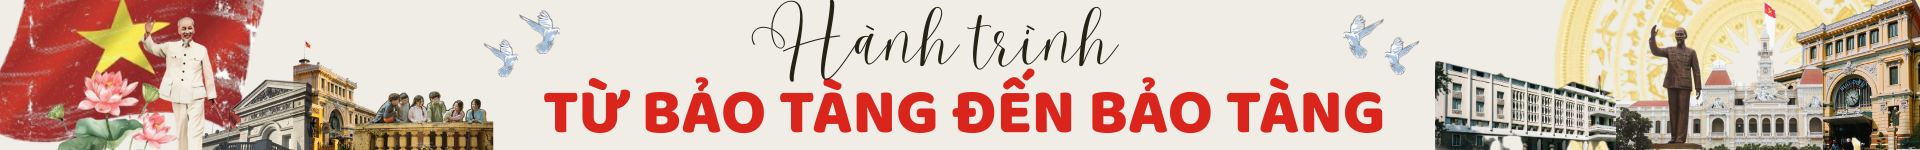
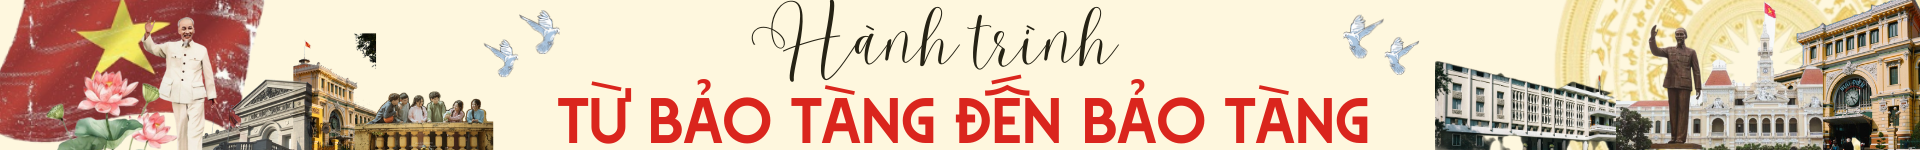
web demo

Changed region(s): [[0.2812, 0.4533, 0.7188, 0.96], [0.1875, 0.2133, 0.2188, 0.4]]

diff --git a/index.html b/index.html
@@ -16,6 +16,9 @@
   <link rel="stylesheet" href="https://unpkg.com/leaflet.locatecontrol/dist/L.Control.Locate.min.css" />
   <script src="https://unpkg.com/leaflet.locatecontrol/dist/L.Control.Locate.min.js"></script>
 
+  <link rel="stylesheet" href="https://unpkg.com/leaflet-routing-machine/dist/leaflet-routing-machine.css" />
+  <script src="https://unpkg.com/leaflet-routing-machine/dist/leaflet-routing-machine.js"></script>
+
   <style>
     body {
       margin: 0;
@@ -43,7 +46,7 @@
       justify-content: center;
       align-items: center;
       padding: 10px;
-      background: #efede5;
+      background: #fff8dc;
       box-shadow: 0 2px 4px rgba(0,0,0,0.1);
       position: relative;
       z-index: 1500;
@@ -92,7 +95,7 @@
     /* Sidebar cố định bên trái */
     .sidebar {
       width: 30%;
-      background: #efede5;
+      background: #fff8dc;
       padding: 20px;
       overflow-y: auto;
       border-right: 1px solid #ccc;
@@ -102,6 +105,155 @@
     #map {
       flex: 1;
     }
+    #chatbox {
+      position: absolute;
+      bottom: 20px;
+      right: 20px;
+      width: 300px;
+      max-height: 400px;
+      background: white;
+      border: 2px solid #ccc;
+      border-radius: 10px;
+      overflow: hidden;
+      box-shadow: 0px 4px 12px rgba(0,0,0,0.2);
+      display: flex;
+      flex-direction: column;
+      z-index: 1000;
+    }
+
+    #chat-header {
+      background: #da251d;
+      color: white;
+      padding: 10px;
+      cursor: pointer;
+      text-align: center;
+      font-weight: bold;
+    }
+
+    #chat-body {
+      padding: 10px;
+      display: none; /* Mặc định ẩn */
+    }
+
+    #chat-widget {
+      position: fixed;
+      bottom: 70px; 
+      right: 10px; /* dịch sang trái để nằm cạnh nút "Gợi ý hành trình" */
+      z-index: 10000;
+      font-family: Arial, sans-serif;
+    }
+
+    /* Nút bong bóng */
+    #chat-toggle {
+      background: #b71c1c;
+      color: white;
+      width: 50px;
+      height: 50px;
+      border-radius: 50%;
+      text-align: center;
+      line-height: 50px;
+      font-size: 22px;
+      cursor: pointer;
+      box-shadow: 0 4px 8px rgba(0,0,0,0.3);
+    }
+
+    /* Khung chat */
+    #chat-boxfaq {
+      display: none;
+      flex-direction: column;
+      width: 320px;
+      height: 420px;
+      background: white;
+      border-radius: 12px;
+      box-shadow: 0 4px 10px rgba(0,0,0,0.3);
+      overflow: hidden;
+      position: absolute;
+      bottom: 60px;
+      right: 0;
+    }
+
+    /* Header */
+    #chat-headerfaq {
+      background: #b71c1c;
+      color: white;
+      padding: 12px;
+      font-weight: bold;
+      display: flex;
+      justify-content: space-between;
+      align-items: center;
+    }
+
+    #chat-close {
+      cursor: pointer;
+    }
+
+    /* Messages */
+    #chat-messages {
+      flex: 1;
+      padding: 10px;
+      overflow-y: auto;
+      font-size: 14px;
+    }
+
+    .bot-message, .user-message {
+      margin: 8px 0;
+      padding: 8px 12px;
+      border-radius: 12px;
+      max-width: 75%;
+    }
+
+    .bot-message {
+      background: #f1f0f0;
+      align-self: flex-start;
+      width: 300px;
+    }
+
+    .user-message {
+      background: #b71c1c;
+      color: white;
+      align-self: flex-end;
+    }
+
+    /* Input */
+    #chat-input-area {
+      display: flex;
+      border-top: 1px solid #ddd;
+    }
+
+    #chat-input {
+      flex: 1;
+      padding: 10px;
+      border: none;
+      outline: none;
+    }
+
+    #chat-send {
+      background: #b71c1c;
+      color: white;
+      border: none;
+      padding: 10px 14px;
+      cursor: pointer;
+    }
+    .faq-suggestions {
+  display: flex;
+  flex-wrap: wrap;
+  gap: 5px;
+  padding: 5px;
+}
+
+.faq-btn {
+  background: #f1f1f1;
+  border: none;
+  border-radius: 12px;
+  padding: 5px 10px;
+  cursor: pointer;
+  font-size: 14px;
+}
+
+.faq-btn:hover {
+  background: #dcdcdc;
+}
+
 
     /* Responsive cho điện thoại */
     @media (max-width: 768px) {
@@ -152,11 +304,113 @@
            Mọi thắc mắc liên hệ: dk.dc.hcmus@gmail.com/lch.dc.hcmus@gmail.com
         </p>
       </div>
-    <!-- Bản đồ -->
+     <!-- Bản đồ -->
     <div id="map"></div>
+    <!-- Gợi ý lộ trình -->
+    <div id="chatbox">
+    <div id="chat-header">Gợi ý hành trình</div>
+      <div id="chat-body">
+        <div class="bot-message">Xin chào! Đây là một số gợi ý lộ trình dành cho bạn.</div>
+        <button onclick="showRoute(1)" style="background-color: #da251d;color: #ccc;">Lộ trình 1</button>
+        <button onclick="showRoute(2)" style="background-color: #da251d;color: #ccc;">Lộ trình 2</button>
+        <button onclick="showRoute(3)" style="background-color: #da251d;color: #ccc;">Lộ trình 3</button>
+      </div>
+    </div>
+    <!-- Chat Box FAQ -->
+    <div id="chat-widget">
+    <div id="chat-toggle">💬</div>
+    <div id="chat-boxfaq">
+      <div id="chat-headerfaq">Hỏi đáp Bảo tàng
+        <span id="chat-close">✖</span>
+      </div>
+      <div id="chat-messages">
+        <div class="bot-message">Xin chào 👋! Bạn muốn tìm hiểu về bảo tàng nào?</div>
+      </div>
+      <!-- Câu hỏi gợi ý -->
+      <div id="faq-suggestions" class="faq-suggestions">
+        <button class="faq-btn">giá vé</button>
+        <button class="faq-btn">giờ mở cửa</button>
+        <button class="faq-btn">nổi bật</button>
+        <button class="faq-btn">miễn phí</button>
+      </div>
+      <div id="chat-input-area">
+        <input type="text" id="chat-input" placeholder="Nhập tin nhắn..."/>
+        <button id="chat-send">➤</button>
+      </div>
+    </div>
   </div>
-
   <script>
+   // Bắt sự kiện click cho các câu hỏi gợi ý
+    document.querySelectorAll(".faq-btn").forEach(btn => {
+      btn.addEventListener("click", () => {
+        chatInput.value = btn.textContent; // điền câu hỏi vào input
+        sendMessage(); // tự động gửi
+      });
+    });
+    // Danh sách FAQ (câu hỏi - trả lời)
+    const faqResponses = {
+      "giá vé": "Các bảo tàng lớn thường có vé khoảng 20k–40k, sinh viên có thể được giảm giá.",
+      "giờ mở cửa": "Đa số bảo tàng mở từ 8h sáng đến 17h chiều, nghỉ trưa từ 12h–13h.",
+      "nổi bật": "Bảo tàng Chứng tích Chiến tranh và Bảo tàng Hồ Chí Minh là nổi bật nhất.",
+      "miễn phí": "Một số bảo tàng nhỏ mở cửa miễn phí, nhưng đa số có thu vé.",
+    };
+
+    // DOM
+    const chatToggle = document.getElementById("chat-toggle");
+    const chatBox = document.getElementById("chat-boxfaq");
+    const chatClose = document.getElementById("chat-close");
+    const chatMessages = document.getElementById("chat-messages");
+    const chatInput = document.getElementById("chat-input");
+    const chatSend = document.getElementById("chat-send");
+
+    // Mở chat
+    chatToggle.addEventListener("click", () => {
+      chatBox.style.display = "flex";
+      chatToggle.style.display = "none";
+    });
+
+    // Đóng chat
+    chatClose.addEventListener("click", () => {
+      chatBox.style.display = "none";
+      chatToggle.style.display = "block";
+    });
+
+    // Gửi tin nhắn
+    chatSend.addEventListener("click", sendMessage);
+    chatInput.addEventListener("keypress", (e) => {
+      if (e.key === "Enter") sendMessage();
+    });
+
+    function sendMessage() {
+      let text = chatInput.value.trim().toLowerCase();
+      if (text === "") return;
+      
+      // Tin nhắn user
+      let userMsg = document.createElement("div");
+      userMsg.className = "user-message";
+      userMsg.textContent = text;
+      chatMessages.appendChild(userMsg);
+      chatInput.value = "";
+      chatMessages.scrollTop = chatMessages.scrollHeight;
+
+      // Bot trả lời
+      setTimeout(() => {
+        let botMsg = document.createElement("div");
+        botMsg.className = "bot-message";
+        if (faqResponses[text]) {
+          botMsg.textContent = faqResponses[text];
+        } else {
+          botMsg.textContent = "Xin lỗi, mình chưa có thông tin về '" + text + "'.";
+        }
+        chatMessages.appendChild(botMsg);
+        chatMessages.scrollTop = chatMessages.scrollHeight;
+      }, 700);
+    }
+    //nút lộ trình
+    document.getElementById("chat-header").addEventListener("click", function() {
+    const body = document.getElementById("chat-body");
+     body.style.display = (body.style.display === "block") ? "none" : "block";
+    });
     // Khởi tạo bản đồ
     var map = L.map('map', {
       fullscreenControl: true
@@ -178,6 +432,50 @@
     };
     L.control.layers(baseMaps).addTo(map);
 
+  var routingControl; // để lưu tuyến đường hiện tại
+  // Hàm vẽ lộ trình
+  function showRoute(locations) {
+    // Xoá route cũ
+    if (routingControl) {
+      map.removeControl(routingControl);
+    }
+    // Vẽ route mới
+    routingControl = L.Routing.control({
+      waypoints: locations.map(loc => L.latLng(loc[0], loc[1])),
+      lineOptions: {
+        styles: [{color: 'red', weight: 4}]
+      },
+      createMarker: function(i, waypoint, n) {
+        return L.marker(waypoint.latLng).bindPopup("Bảo tàng " + (i+1));
+      },
+      addWaypoints: false,   // không cho thêm điểm tay
+      routeWhileDragging: false
+    }).addTo(map);
+  }
+  // Khi click vào chatbox
+  document.getElementById("chat-body").addEventListener("click", function(e) {
+    if (e.target.innerText.includes("Lộ trình 1")) {
+      showRoute([
+        [10.77724713978662, 106.69529136674576], // Dinh độc lập
+        [10.78842816206161, 106.70450576086436], // Bảo tàng Lịch sử VN
+        [10.777425204072086, 106.70658398023713]  // Bảo tàng Tôn Đức Thắng
+      ]);
+    }
+    if (e.target.innerText.includes("Lộ trình 2")) {
+      showRoute([
+        [10.77968976110387, 106.69209159558208], // Bảo tàng Chứng tích Chiến tranh
+        [10.776229080283908, 106.699561764892], // Bảo tàng TPHCM
+        [10.770269145655245, 106.69926079743563]  // Bảo tàng Mỹ Thuật
+      ]);
+    }
+    if (e.target.innerText.includes("Lộ trình 3")) {
+      showRoute([
+        [10.78510362982867, 106.70781058023714], // Bảo tàng Địa chất
+        [10.780092060863971, 106.6999556397634], // Bưu điện thành phố
+        [10.77724713978662, 106.69529136674576]  // Dinh độc lập
+      ]);
+    }
+  });
     // Icon Việt Nam
     var vietnamIcon = L.icon({
       iconUrl: 'vietnam.png',
